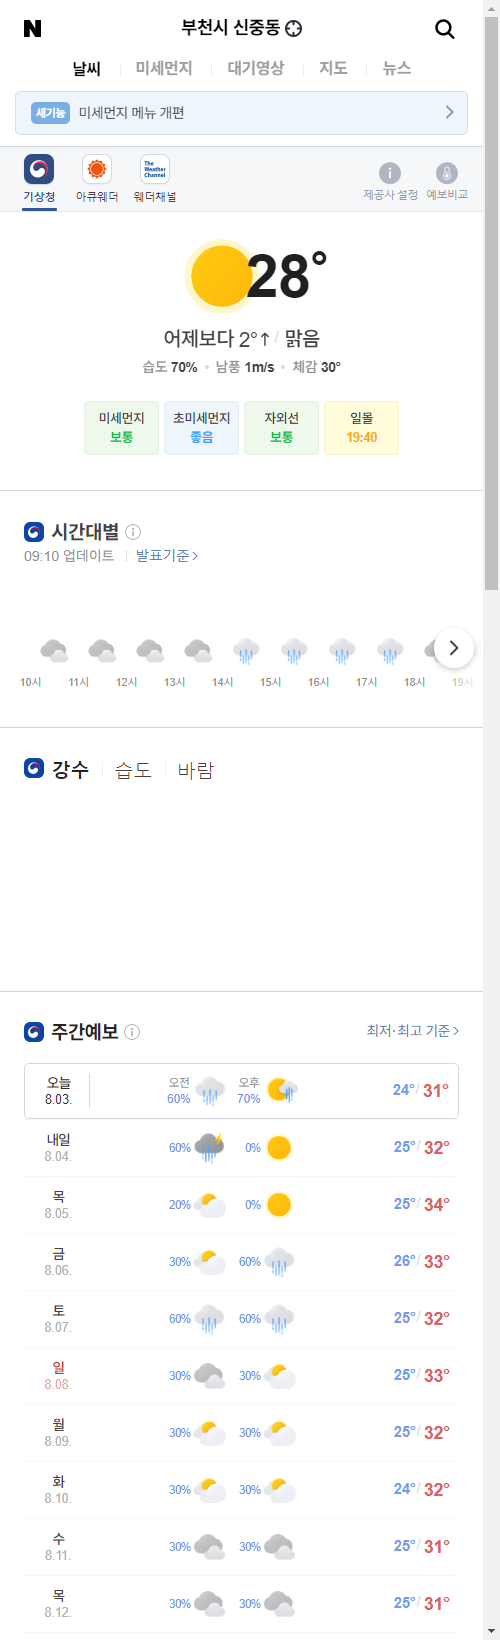
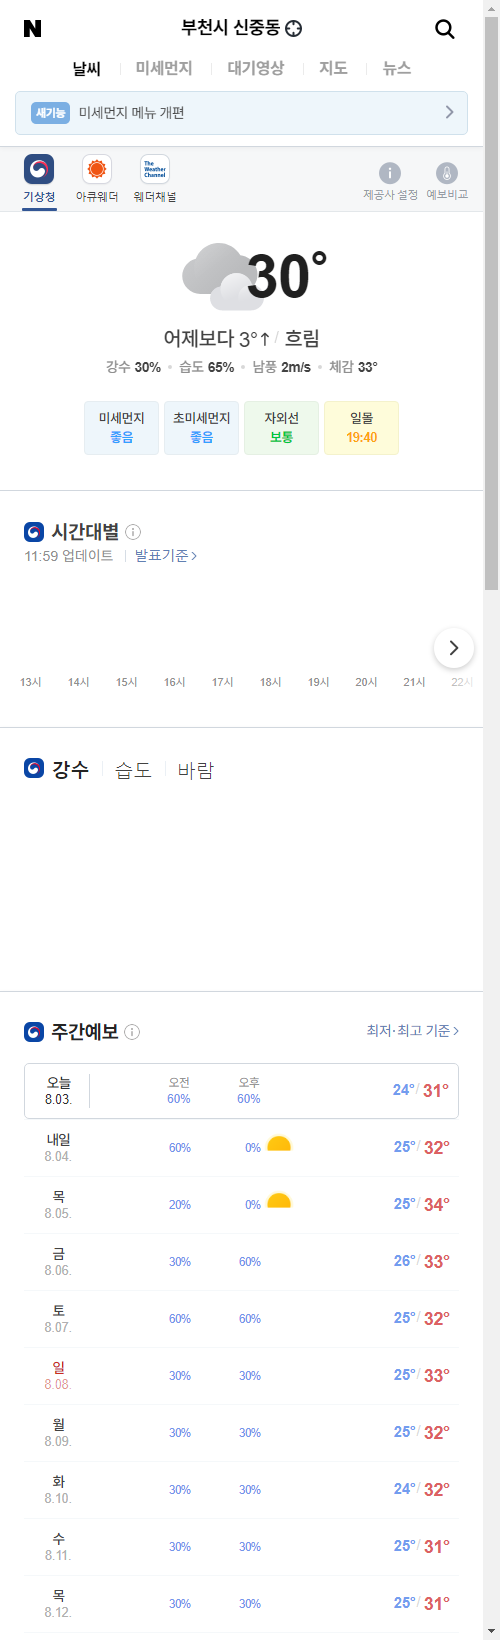
update result

diff --git a/README.md b/README.md
@@ -1,5 +1,5 @@
-##  2021-08-03 09:17:23   화요일 
-##### 날씨   -   어제보다 2° 높아요맑음  
+##  2021-08-03 12:07:58   화요일 
+##### 날씨   -   어제보다 3° 높아요흐림  
 <center><img src="../img/naver_weather_week.png"></center>
 ----
 ----
@@ -16,14 +16,14 @@
 <tr align = "right" > <td>DOW</td><td>34,838.16</td><td>-97.31</td><td><font size="3" color="blue" >-0.28%</font></td><td><font size="3" color="black">0</font></td><td><font size="3" color="black">0</font></td><td>0</td>  </tr>
 <tr align = "right" > <td>NASDAQ</td><td>14,681.07</td><td>8.39</td><td><font size="3" color="red" >0.06%</font></td><td><font size="3" color="black">0</font></td><td><font size="3" color="black">0</font></td><td>0</td>  </tr>
 <tr align = "right" > <td>S&P</td><td>4,387.16</td><td>-8.1</td><td><font size="3" color="blue" >-0.18%</font></td><td><font size="3" color="black">0</font></td><td><font size="3" color="black">0</font></td><td>0</td>  </tr>
-<tr align = "right" > <td>SHANHAI</td><td>3,464.29</td><td>66.93</td><td><font size="3" color="red" >1.97%</font></td><td><font size="3" color="black">0</font></td><td><font size="3" color="black">0</font></td><td>0</td>  </tr>
+<tr align = "right" > <td>SHANHAI</td><td>3,453.61</td><td>-10.67</td><td><font size="3" color="blue" >-0.31%</font></td><td><font size="3" color="black">0</font></td><td><font size="3" color="black">0</font></td><td>0</td>  </tr>
 <tr align = "right" > <td>INDIA</td><td>52,950.63</td><td>363.79</td><td><font size="3" color="red" >0.69%</font></td><td><font size="3" color="black">0</font></td><td><font size="3" color="black">0</font></td><td>0</td>  </tr>
 </table>
 ----
 ##### 시장
 <table border="1" bordercolor="blue" align = "center" >
 <tr align = "right" > <td>Item</td><td>Price</td><td>Diff</td><td>Rate</td><td>Buy</td><td>Sell</td><td>...</td>  </tr>
-<tr align = "right" > <td>USD</td><td>1,148.0</td><td>-2.1</td><td><font size="3" color="blue">-0.18%</font></td><td><font size="3" color="black">1,110</font></td><td><font size="3" color="black">0</font></td><td>0</td>  </tr>
+<tr align = "right" > <td>USD</td><td>1,151.0</td><td>0.5</td><td><font size="3" color="red">0.04%</font></td><td><font size="3" color="black">1,110</font></td><td><font size="3" color="black">0</font></td><td>0</td>  </tr>
 <tr align = "right" > <td>WTI</td><td>71.26</td><td>-2.69</td><td><font size="3" color="blue">-3.63%</font></td><td><font size="3" color="black">29.0</font></td><td><font size="3" color="black">0</font></td><td>0</td>  </tr>
 <tr align = "right" > <td>GOLD</td><td>1,818.0</td><td>5.5</td><td><font size="3" color="red">0.3%</font></td><td><font size="3" color="black">0</font></td><td><font size="3" color="black">0</font></td><td>0</td>  </tr>
 </table>
@@ -31,32 +31,32 @@
 ##### 주가
 <table border="1" bordercolor="blue" align = "center" >
 <tr align = "right" > <td>Item</td><td>Price</td><td>Diff</td><td>Rate</td><td>Purchased</td><td>Sell</td><td>Buy</td>  </tr>
-<tr align = "right" > <td>한국 전력</td><td>25,250</td><td>-150</td><td><font size="3" color="blue">-0.59%</font></td><td>25,720</td><td><font size="3" color="black">27,700</font></td><td><font size="3" color="black">20,700</font></td>  </tr>
-<tr align = "right" > <td>삼성엔지니어.</td><td>23,750</td><td>0</td><td><font size="3" color="black">0.0%</font></td><td>18,935</td><td><font size="3" color="black">20,000</font></td><td><font size="3" color="black">8,000</font></td>  </tr>
-<tr align = "right" > <td>CJ CGV</td><td>29,100</td><td>-100</td><td><font size="3" color="blue">-0.34%</font></td><td>34,895</td><td><font size="3" color="black">36,000</font></td><td><font size="3" color="black">0</font></td>  </tr>
-<tr align = "right" > <td>아모레퍼시픽</td><td>219,000</td><td>-1,500</td><td><font size="3" color="blue">-0.68%</font></td><td>235,350</td><td><font size="3" color="black">240,000</font></td><td><font size="3" color="black">130,000</font></td>  </tr>
-<tr align = "right" > <td>한화</td><td>30,050</td><td>100</td><td><font size="3" color="red">0.33%</font></td><td>25,550</td><td><font size="3" color="black">26,250</font></td><td><font size="3" color="black">26,250</font></td>  </tr>
-<tr align = "right" > <td>NAVER</td><td>427,500</td><td>-6,000</td><td><font size="3" color="blue">-1.38%</font></td><td>147,200</td><td><font size="3" color="black">386,000</font></td><td><font size="3" color="black">286,000</font></td>  </tr>
-<tr align = "right" > <td>LG 화학우</td><td>389,000</td><td>1,000</td><td><font size="3" color="red">0.26%</font></td><td>202,490</td><td><font size="3" color="black">384,000</font></td><td><font size="3" color="black">384,000</font></td>  </tr>
-<tr align = "right" > <td>스튜디오드래.</td><td>91,900</td><td>-200</td><td><font size="3" color="blue">-0.22%</font></td><td>81,243</td><td><font size="3" color="black">85,200</font></td><td><font size="3" color="black">85,200</font></td>  </tr>
-<tr align = "right" > <td>QV미국IT</td><td>31,305</td><td>-185</td><td><font size="3" color="blue">-0.59%</font></td><td>0</td><td><font size="3" color="black">30,000</font></td><td><font size="3" color="black">20,000</font></td>  </tr>
-<tr align = "right" > <td>삼성 전자우</td><td>73,900</td><td>800</td><td><font size="3" color="red">1.09%</font></td><td>60,675</td><td><font size="3" color="black">76,000</font></td><td><font size="3" color="black">55,000</font></td>  </tr>
-<tr align = "right" > <td>LS</td><td>70,700</td><td>-400</td><td><font size="3" color="blue">-0.56%</font></td><td>71,900</td><td><font size="3" color="black">82,000</font></td><td><font size="3" color="black">60,000</font></td>  </tr>
-<tr align = "right" > <td>한화에어로스.</td><td>53,300</td><td>-700</td><td><font size="3" color="blue">-1.3%</font></td><td>25,700</td><td><font size="3" color="black">30,000</font></td><td><font size="3" color="black">24,000</font></td>  </tr>
+<tr align = "right" > <td>한국 전력</td><td>25,150</td><td>-250</td><td><font size="3" color="blue">-0.98%</font></td><td>25,720</td><td><font size="3" color="black">27,700</font></td><td><font size="3" color="black">20,700</font></td>  </tr>
+<tr align = "right" > <td>삼성엔지니어.</td><td>23,350</td><td>-400</td><td><font size="3" color="blue">-1.68%</font></td><td>18,935</td><td><font size="3" color="black">20,000</font></td><td><font size="3" color="black">8,000</font></td>  </tr>
+<tr align = "right" > <td>CJ CGV</td><td>28,900</td><td>-300</td><td><font size="3" color="blue">-1.03%</font></td><td>34,895</td><td><font size="3" color="black">36,000</font></td><td><font size="3" color="black">0</font></td>  </tr>
+<tr align = "right" > <td>아모레퍼시픽</td><td>217,000</td><td>-3,500</td><td><font size="3" color="blue">-1.59%</font></td><td>235,350</td><td><font size="3" color="black">240,000</font></td><td><font size="3" color="black">130,000</font></td>  </tr>
+<tr align = "right" > <td>한화</td><td>29,750</td><td>-200</td><td><font size="3" color="blue">-0.67%</font></td><td>25,550</td><td><font size="3" color="black">26,250</font></td><td><font size="3" color="black">26,250</font></td>  </tr>
+<tr align = "right" > <td>NAVER</td><td>425,500</td><td>-8,000</td><td><font size="3" color="blue">-1.85%</font></td><td>147,200</td><td><font size="3" color="black">386,000</font></td><td><font size="3" color="black">286,000</font></td>  </tr>
+<tr align = "right" > <td>LG 화학우</td><td>387,500</td><td>-500</td><td><font size="3" color="blue">-0.13%</font></td><td>202,490</td><td><font size="3" color="black">384,000</font></td><td><font size="3" color="black">384,000</font></td>  </tr>
+<tr align = "right" > <td>스튜디오드래.</td><td>91,000</td><td>-1,100</td><td><font size="3" color="blue">-1.19%</font></td><td>81,243</td><td><font size="3" color="black">85,200</font></td><td><font size="3" color="black">85,200</font></td>  </tr>
+<tr align = "right" > <td>QV미국IT</td><td>31,295</td><td>-195</td><td><font size="3" color="blue">-0.62%</font></td><td>0</td><td><font size="3" color="black">30,000</font></td><td><font size="3" color="black">20,000</font></td>  </tr>
+<tr align = "right" > <td>삼성 전자우</td><td>73,800</td><td>700</td><td><font size="3" color="red">0.96%</font></td><td>60,675</td><td><font size="3" color="black">76,000</font></td><td><font size="3" color="black">55,000</font></td>  </tr>
+<tr align = "right" > <td>LS</td><td>69,900</td><td>-1,200</td><td><font size="3" color="blue">-1.69%</font></td><td>71,900</td><td><font size="3" color="black">82,000</font></td><td><font size="3" color="black">60,000</font></td>  </tr>
+<tr align = "right" > <td>한화에어로스.</td><td>53,800</td><td>-200</td><td><font size="3" color="blue">-0.37%</font></td><td>25,700</td><td><font size="3" color="black">30,000</font></td><td><font size="3" color="black">24,000</font></td>  </tr>
 <tr align = "right" > <td>한화시스템.</td><td>16,750</td><td>-50</td><td><font size="3" color="blue">-0.3%</font></td><td>16,875</td><td><font size="3" color="black">30,000</font></td><td><font size="3" color="black">14,000</font></td>  </tr>
-<tr align = "right" > <td>카카오</td><td>143,000</td><td>-3,000</td><td><font size="3" color="blue">-2.05%</font></td><td>405,500</td><td><font size="3" color="black">440,000</font></td><td><font size="3" color="orangered">400,000</font></td>  </tr>
-<tr align = "right" > <td>호텔 신라</td><td>92,300</td><td>-200</td><td><font size="3" color="blue">-0.22%</font></td><td>88,650</td><td><font size="3" color="black">100,000</font></td><td><font size="3" color="black">70,000</font></td>  </tr>
-<tr align = "right" > <td>S-Oil</td><td>97,000</td><td>-1,400</td><td><font size="3" color="blue">-1.42%</font></td><td>62,842</td><td><font size="3" color="black">100,000</font></td><td><font size="3" color="black">50,000</font></td>  </tr>
-<tr align = "right" > <td>LG전자</td><td>157,000</td><td>500</td><td><font size="3" color="red">0.32%</font></td><td>82,022</td><td><font size="3" color="black">100,000</font></td><td><font size="3" color="black">60,000</font></td>  </tr>
-<tr align = "right" > <td>KT&G</td><td>82,500</td><td>-100</td><td><font size="3" color="blue">-0.12%</font></td><td>79,700</td><td><font size="3" color="black">100,000</font></td><td><font size="3" color="black">70,000</font></td>  </tr>
-<tr align = "right" > <td>지역난방공사</td><td>42,450</td><td>-100</td><td><font size="3" color="blue">-0.24%</font></td><td>43,590</td><td><font size="3" color="black">60,000</font></td><td><font size="3" color="black">30,000</font></td>  </tr>
+<tr align = "right" > <td>카카오</td><td>144,000</td><td>-2,000</td><td><font size="3" color="blue">-1.37%</font></td><td>405,500</td><td><font size="3" color="black">440,000</font></td><td><font size="3" color="orangered">400,000</font></td>  </tr>
+<tr align = "right" > <td>호텔 신라</td><td>91,900</td><td>-600</td><td><font size="3" color="blue">-0.65%</font></td><td>88,650</td><td><font size="3" color="black">100,000</font></td><td><font size="3" color="black">70,000</font></td>  </tr>
+<tr align = "right" > <td>S-Oil</td><td>95,900</td><td>-2,500</td><td><font size="3" color="blue">-2.54%</font></td><td>62,842</td><td><font size="3" color="black">100,000</font></td><td><font size="3" color="black">50,000</font></td>  </tr>
+<tr align = "right" > <td>LG전자</td><td>156,000</td><td>-500</td><td><font size="3" color="blue">-0.32%</font></td><td>82,022</td><td><font size="3" color="black">100,000</font></td><td><font size="3" color="black">60,000</font></td>  </tr>
+<tr align = "right" > <td>KT&G</td><td>82,300</td><td>-300</td><td><font size="3" color="blue">-0.36%</font></td><td>79,700</td><td><font size="3" color="black">100,000</font></td><td><font size="3" color="black">70,000</font></td>  </tr>
+<tr align = "right" > <td>지역난방공사</td><td>42,400</td><td>-150</td><td><font size="3" color="blue">-0.35%</font></td><td>43,590</td><td><font size="3" color="black">60,000</font></td><td><font size="3" color="black">30,000</font></td>  </tr>
 <tr align = "right" > <td>맥쿼리인프라</td><td>12,350</td><td>50</td><td><font size="3" color="red">0.41%</font></td><td>12,577</td><td><font size="3" color="black">30,000</font></td><td><font size="3" color="black">10,000</font></td>  </tr>
-<tr align = "right" > <td>KOEDX은행</td><td>7,220</td><td>-35</td><td><font size="3" color="blue">-0.48%</font></td><td>7,578</td><td><font size="3" color="black">8,825</font></td><td><font size="3" color="black">6,225</font></td>  </tr>
-<tr align = "right" > <td>글로벌럭셔리</td><td>18,335</td><td>80</td><td><font size="3" color="red">0.44%</font></td><td>16,302</td><td><font size="3" color="black">20,000</font></td><td><font size="3" color="black">10,000</font></td>  </tr>
-<tr align = "right" > <td>TIRGER200건설</td><td>3,325</td><td>-10</td><td><font size="3" color="blue">-0.3%</font></td><td>3,440</td><td><font size="3" color="black">4,000</font></td><td><font size="3" color="black">3,000</font></td>  </tr>
-<tr align = "right" > <td>KODEXK미래차</td><td>10,840</td><td>25</td><td><font size="3" color="red">0.23%</font></td><td>10,955</td><td><font size="3" color="black">20,000</font></td><td><font size="3" color="black">10,000</font></td>  </tr>
-<tr align = "right" > <td>TIGER글로벌BBIG</td><td>11,580</td><td>-15</td><td><font size="3" color="blue">-0.13%</font></td><td>11,020</td><td><font size="3" color="black">20,000</font></td><td><font size="3" color="black">10,000</font></td>  </tr>
-<tr align = "right" > <td>TIGER퓨처모빌리티</td><td>11,040</td><td>40</td><td><font size="3" color="red">0.36%</font></td><td>10,695</td><td><font size="3" color="black">20,000</font></td><td><font size="3" color="black">10,000</font></td>  </tr>
-<tr align = "right" > <td>한국금융지주</td><td>97,900</td><td>2,000</td><td><font size="3" color="red">2.09%</font></td><td>0</td><td><font size="3" color="black">82,000</font></td><td><font size="3" color="black">60,000</font></td>  </tr>
+<tr align = "right" > <td>KOEDX은행</td><td>7,245</td><td>-10</td><td><font size="3" color="blue">-0.14%</font></td><td>7,578</td><td><font size="3" color="black">8,825</font></td><td><font size="3" color="black">6,225</font></td>  </tr>
+<tr align = "right" > <td>글로벌럭셔리</td><td>18,375</td><td>120</td><td><font size="3" color="red">0.66%</font></td><td>16,302</td><td><font size="3" color="black">20,000</font></td><td><font size="3" color="black">10,000</font></td>  </tr>
+<tr align = "right" > <td>TIRGER200건설</td><td>3,290</td><td>-45</td><td><font size="3" color="blue">-1.35%</font></td><td>3,440</td><td><font size="3" color="black">4,000</font></td><td><font size="3" color="black">3,000</font></td>  </tr>
+<tr align = "right" > <td>KODEXK미래차</td><td>10,785</td><td>-30</td><td><font size="3" color="blue">-0.28%</font></td><td>10,955</td><td><font size="3" color="black">20,000</font></td><td><font size="3" color="black">10,000</font></td>  </tr>
+<tr align = "right" > <td>TIGER글로벌BBIG</td><td>11,565</td><td>-30</td><td><font size="3" color="blue">-0.26%</font></td><td>11,020</td><td><font size="3" color="black">20,000</font></td><td><font size="3" color="black">10,000</font></td>  </tr>
+<tr align = "right" > <td>TIGER퓨처모빌리티</td><td>11,030</td><td>30</td><td><font size="3" color="red">0.27%</font></td><td>10,695</td><td><font size="3" color="black">20,000</font></td><td><font size="3" color="black">10,000</font></td>  </tr>
+<tr align = "right" > <td>한국금융지주</td><td>95,800</td><td>-100</td><td><font size="3" color="blue">-0.1%</font></td><td>0</td><td><font size="3" color="black">82,000</font></td><td><font size="3" color="black">60,000</font></td>  </tr>
 </table>
 ----
